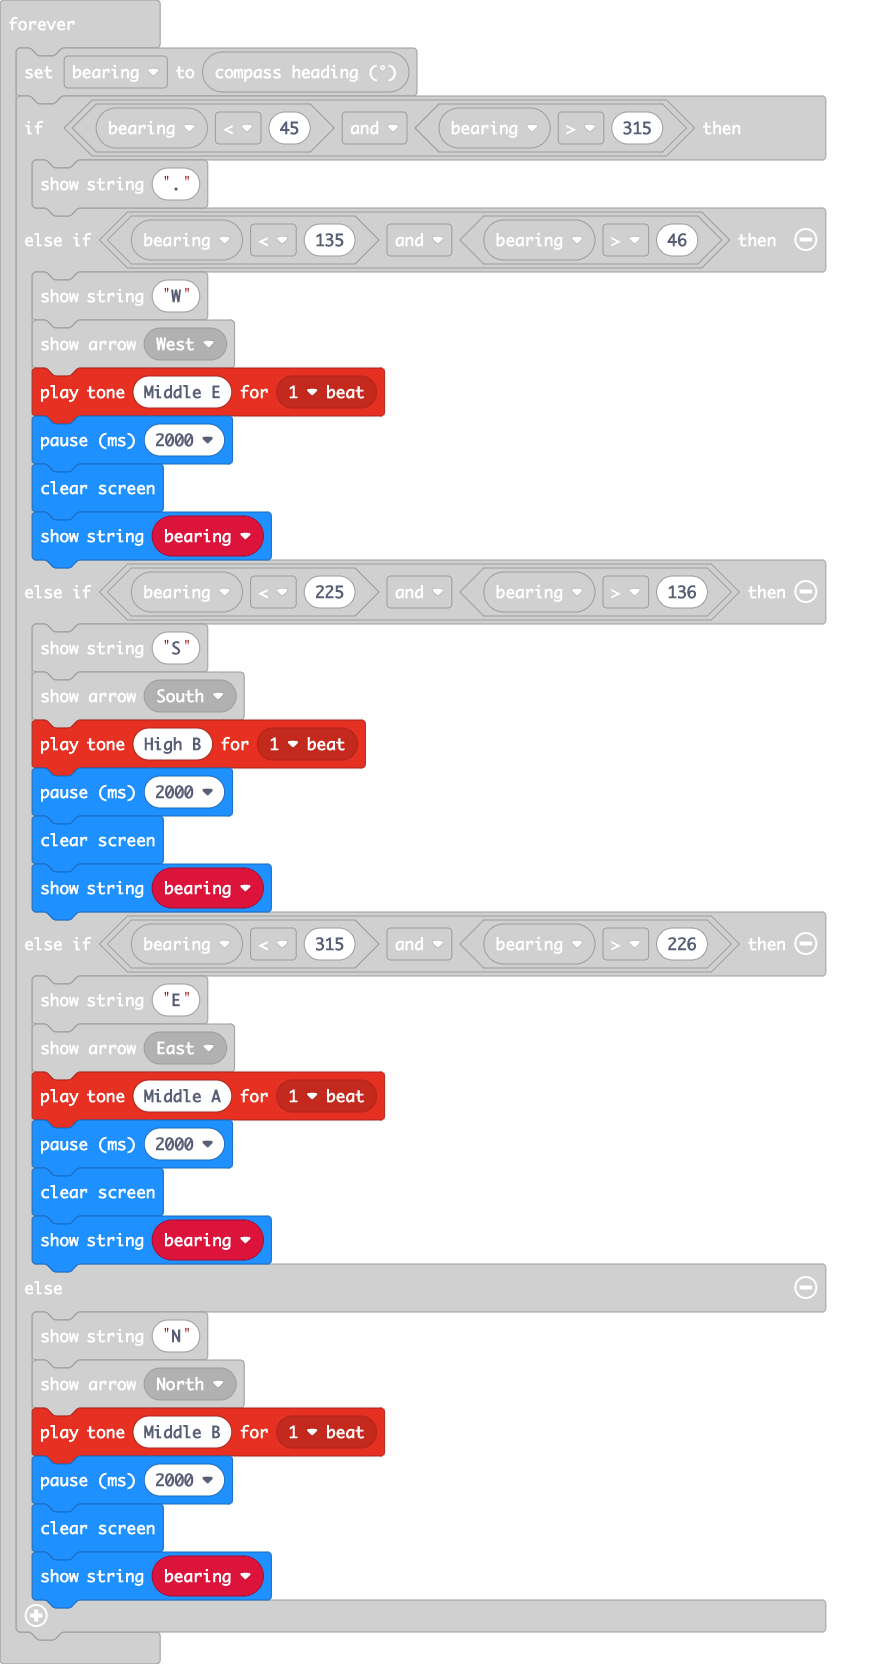
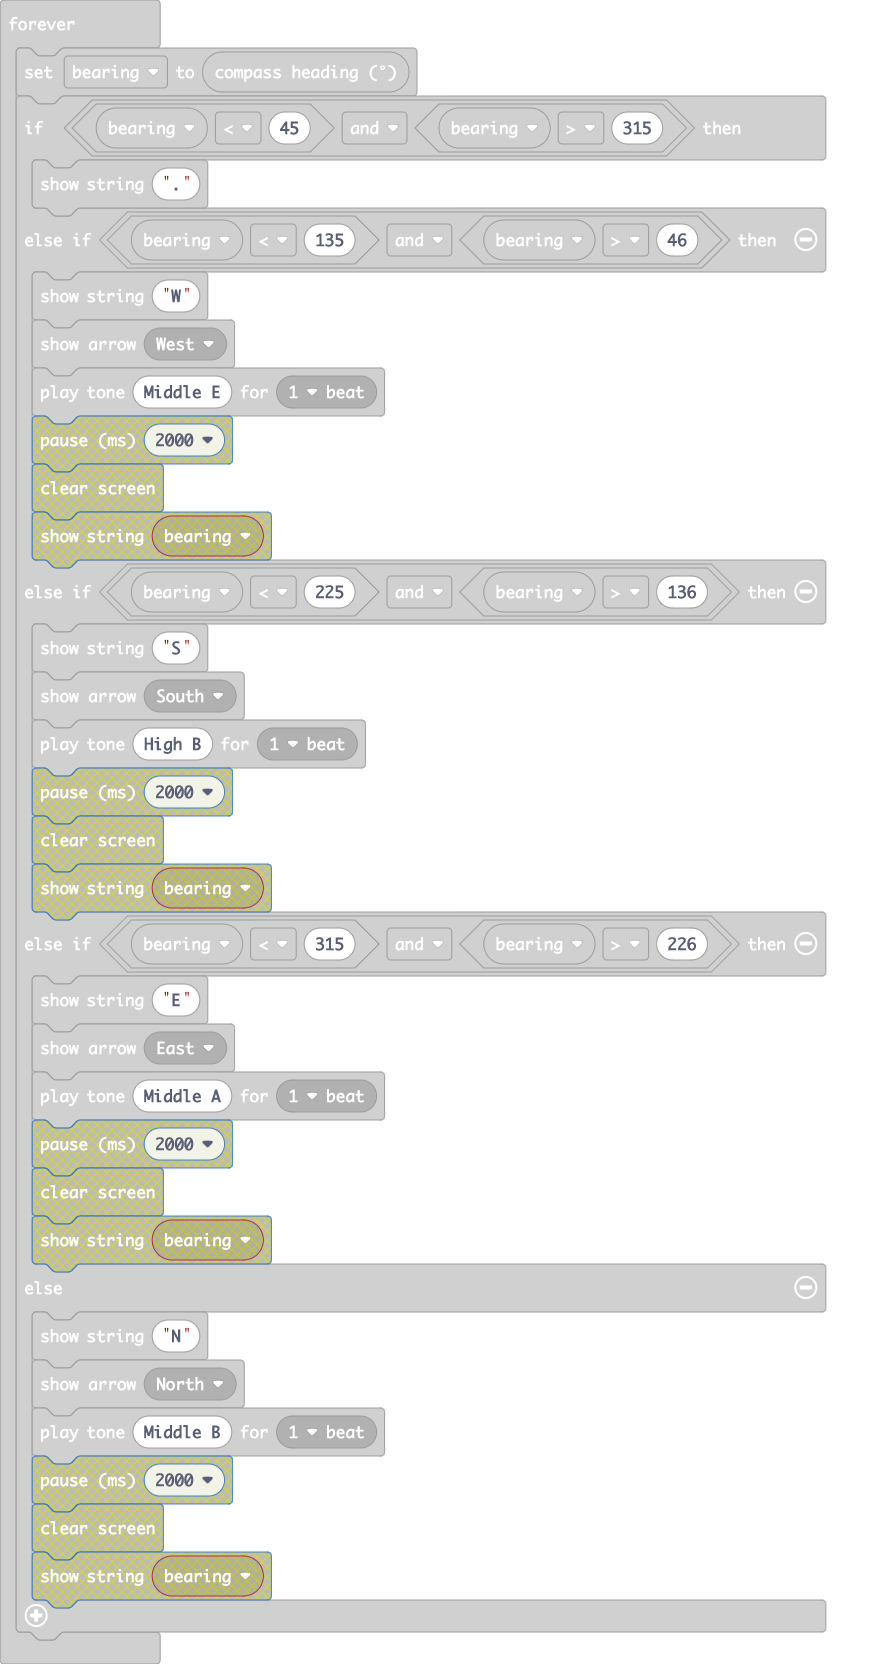
removed bugs

diff --git a/main.ts b/main.ts
@@ -7,29 +7,17 @@ basic.forever(function () {
         basic.showString("W")
         basic.showArrow(ArrowNames.West)
         music.playTone(330, music.beat(BeatFraction.Whole))
-        basic.pause(2000)
-        basic.clearScreen()
-        basic.showString("" + (bearing))
     } else if (bearing < 225 && bearing > 136) {
         basic.showString("S")
         basic.showArrow(ArrowNames.South)
         music.playTone(988, music.beat(BeatFraction.Whole))
-        basic.pause(2000)
-        basic.clearScreen()
-        basic.showString("" + (bearing))
     } else if (bearing < 315 && bearing > 226) {
         basic.showString("E")
         basic.showArrow(ArrowNames.East)
         music.playTone(440, music.beat(BeatFraction.Whole))
-        basic.pause(2000)
-        basic.clearScreen()
-        basic.showString("" + (bearing))
     } else {
         basic.showString("N")
         basic.showArrow(ArrowNames.North)
         music.playTone(494, music.beat(BeatFraction.Whole))
-        basic.pause(2000)
-        basic.clearScreen()
-        basic.showString("" + (bearing))
     }
 })
